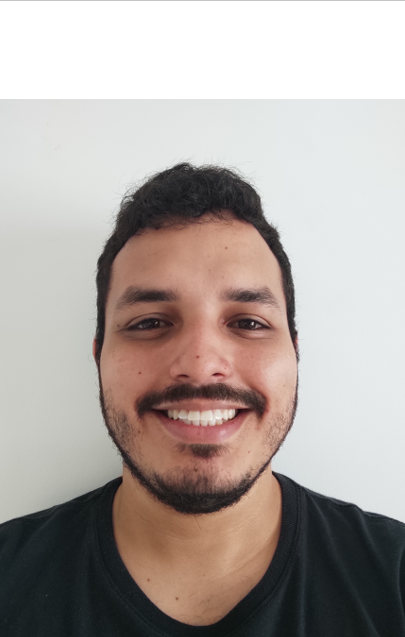
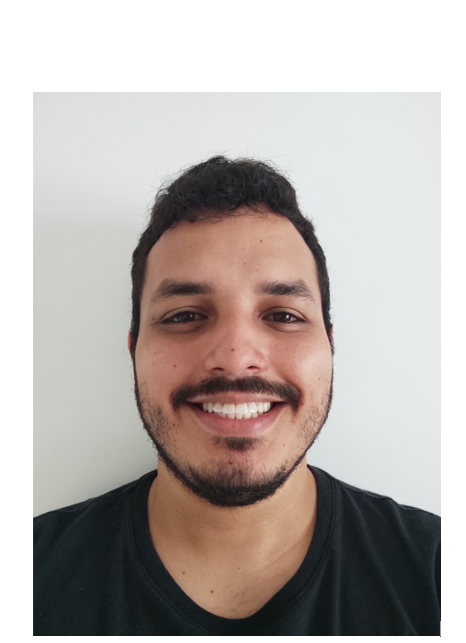
Add Matheus Souza

Changed region(s): [[0.0, 0.1193, 1.0, 1.0]]

diff --git a/_staff_members/10-Matheus.md b/_staff_members/10-Matheus.md
@@ -1,0 +1,7 @@
+---
+name: Matheus de Souza
+position: Graduando
+image_path: /images/stafff/MTS.png
+link: 
+blurb:
+---
